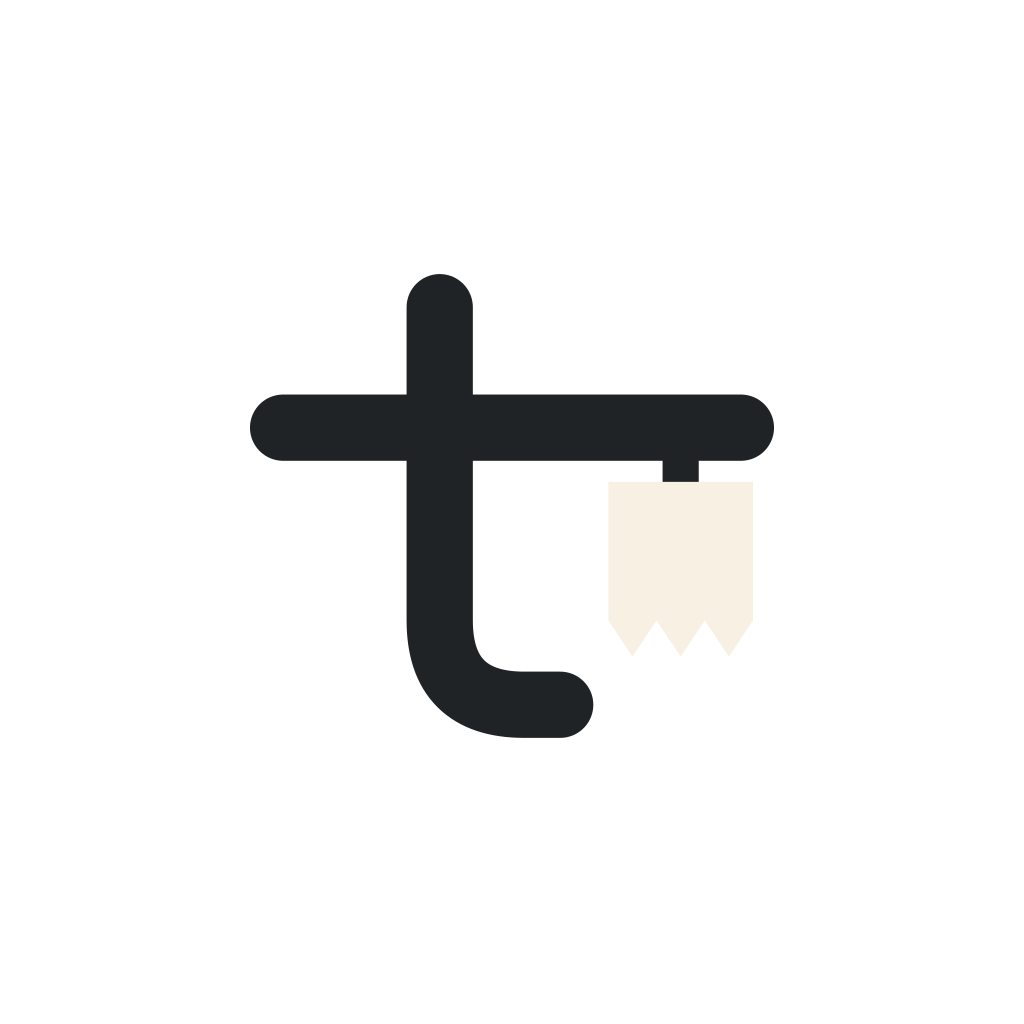
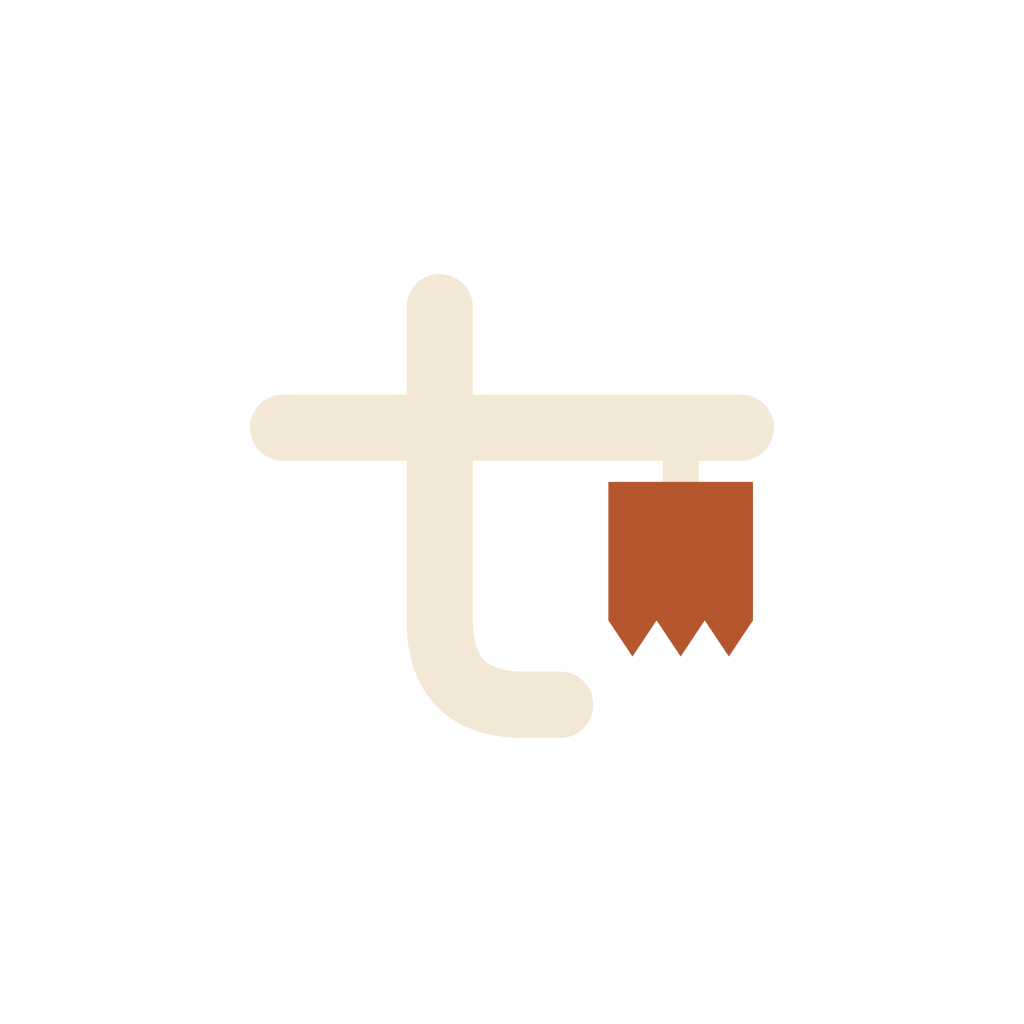
Switch to TNDL palette: Ivory, Navy, Copper, Mocha, Sand
Theme tokens (light and dark) with WCAG 4.5:1 text pairs, logo variants,
button glow, pickup board, onboarding progress, app icon, splash and favicon.

Changed region(s): [[0.2188, 0.25, 0.7812, 0.7188]]

diff --git a/src/theme.ts b/src/theme.ts
@@ -1,21 +1,21 @@
-// tamuko. brand guidelines v1.0 §05 Colour.
-// "Peach is precious: it marks the one thing to do next. Backgrounds stay calm (charcoal or cream),
-//  steel and blue carry structure. Status colours never change with a merchant's theme."
-// Proportion 60% charcoal/cream · 30% steel/blue/ivory · 10% peach. Never white text on peach.
-// All text pairs below are checked to WCAG 4.5:1.
+// tamuko. palette — TNDL 1.0 (Ivory · Navy · Copper · Mocha · Sand). Replaces brand guidelines v1.0 colours.
+// Copper marks the one thing to do next. Navy carries structure and text. Ivory/Sand stay calm in the background.
+// Mocha is the accent for small text on ivory (copper text on ivory is only 3.98:1).
+// Status colours never change with a merchant's theme. All text pairs below are checked to WCAG 4.5:1.
 import { useColorScheme } from 'react-native';
 import { useApp } from './store';
 
 export const BRAND = {
-  peach: '#FF8254',
-  steel: '#3F5A62',
-  blue: '#526889',
-  charcoal: '#1F1F21',
-  cream: '#EADFC7',
-  paper: '#F7F0E3',
-  ivory: '#F0EFE9',
-  stone: '#B8B8B0',
-  ink: '#202326', // text on peach (6.45:1)
+  ivory: '#F2E8D5',
+  navy: '#1B2A4A',
+  copper: '#B5562F',
+  mocha: '#8C5A3C',
+  sand: '#C9B896',
+  paper: '#FAF4E8',
+  copperLight: '#E08A60', // copper for dark mode (5.4:1 on navy)
+  navyDeep: '#141F38',
+  ink: '#141F38', // text on light copper
+  onCopper: '#FFF8EE', // text on copper (4.59:1)
 } as const;
 
 export type Theme = {
@@ -51,22 +51,22 @@ const webShadow = (css: string, color: string, y: number, r: number, o: number) 
 
 export const light: Theme = {
   dark: false,
-  bg: BRAND.cream,
-  surface: BRAND.paper, // "Paper · tickets, receipts, light cards"
-  raised: '#FFF8EE',
-  inset: '#DED2BC',
-  primary: BRAND.peach,
-  onPrimary: BRAND.ink,
-  select: BRAND.steel,
-  onSelect: BRAND.paper, // 6.50:1
-  accentText: BRAND.steel,
-  text: '#30474F', // website "Warm" --text, 6.9:1 on cream
-  textDim: '#575F5C', // 4.97:1 on cream
-  border: '#CFC3AD',
-  borderStrong: BRAND.steel,
-  focus: BRAND.steel,
-  overlay: '#20232699',
-  glass: 'rgba(247,240,227,0.72)',
+  bg: BRAND.ivory,
+  surface: BRAND.paper,
+  raised: '#FFFAF1',
+  inset: '#E6DAC2',
+  primary: BRAND.copper,
+  onPrimary: BRAND.onCopper, // 4.59:1
+  select: BRAND.navy,
+  onSelect: BRAND.ivory, // 11.7:1
+  accentText: BRAND.mocha, // 4.74:1 on ivory
+  text: BRAND.navy, // 11.7:1 on ivory
+  textDim: '#4F5B70', // 5.64:1 on ivory
+  border: BRAND.sand,
+  borderStrong: BRAND.navy,
+  focus: BRAND.navy,
+  overlay: '#141F3899',
+  glass: 'rgba(250,244,232,0.74)',
   paper: BRAND.paper,
   paperInk: BRAND.ink,
   success: '#236B52',
@@ -75,27 +75,27 @@ export const light: Theme = {
   info: '#2C668F',
   pending: '#705EA5',
   statusBg: BRAND.paper,
-  shadow: webShadow('0 1px 2px rgba(48,71,79,.06), 0 12px 32px -12px rgba(48,71,79,.22)', '#30474F', 10, 16, 0.14),
+  shadow: webShadow('0 1px 2px rgba(27,42,74,.06), 0 12px 32px -12px rgba(27,42,74,.22)', '#1B2A4A', 10, 16, 0.14),
 };
 
 export const dark: Theme = {
   dark: true,
-  bg: BRAND.charcoal,
-  surface: '#29292C',
-  raised: '#323238',
-  inset: '#171719',
-  primary: BRAND.peach,
-  onPrimary: BRAND.ink,
-  select: BRAND.blue, // "Dashboard Blue · dark-mode accent, selected panels"
-  onSelect: BRAND.ivory, // 4.93:1
-  accentText: BRAND.peach,
+  bg: BRAND.navyDeep,
+  surface: BRAND.navy,
+  raised: '#22345A',
+  inset: '#0F182C',
+  primary: BRAND.copperLight,
+  onPrimary: BRAND.ink, // 6.22:1
+  select: '#2C3E66',
+  onSelect: BRAND.ivory, // 8.69:1
+  accentText: BRAND.copperLight, // 5.40:1 on navy
   text: BRAND.ivory,
-  textDim: BRAND.stone, // 7.27:1 on surface
-  border: '#3A3A40',
-  borderStrong: '#7C91AD',
-  focus: '#FFC09C',
+  textDim: BRAND.sand, // 7.30:1 on navy
+  border: '#2E3F63',
+  borderStrong: BRAND.sand,
+  focus: '#F0B08C',
   overlay: '#000000B3',
-  glass: 'rgba(41,41,44,0.55)', // §07 glass
+  glass: 'rgba(27,42,74,0.6)',
   paper: BRAND.paper,
   paperInk: BRAND.ink,
   success: '#73D4A2',
@@ -103,7 +103,7 @@ export const dark: Theme = {
   error: '#FF8D87',
   info: '#86B9E3',
   pending: '#BAA7EE',
-  statusBg: '#29292C',
+  statusBg: BRAND.navy,
   shadow: webShadow('0 1px 2px rgba(0,0,0,.3), 0 16px 40px -16px rgba(0,0,0,.6)', '#000000', 12, 20, 0.45),
 };
 

diff --git a/src/screens/Rail.tsx b/src/screens/Rail.tsx
@@ -17,7 +17,7 @@ import { useTheme } from '../theme';
 if (Platform.OS === 'android') UIManager.setLayoutAnimationEnabledExperimental?.(true);
 
 const LATE_MS = 10 * 60_000;
-const INK = '#202326';
+const INK = '#141F38';
 const LATE = '#A63838';
 
 function useReduceMotion() {
@@ -89,7 +89,7 @@ function TicketCard({ tk, now, reduce, onPay, onPrint }: { tk: Ticket; now: numb
           </View>
         </Row>
         <Row gap={6} style={{ flexWrap: 'wrap' }}>
-          <View style={{ borderRadius: 6, backgroundColor: '#EADFC7', paddingHorizontal: 7, paddingVertical: 2 }}>
+          <View style={{ borderRadius: 6, backgroundColor: '#F2E8D5', paddingHorizontal: 7, paddingVertical: 2 }}>
             <Txt size={12} weight="600" color={INK}>{modeLabel(tk.mode, b.template)}{tk.table ? ` · ${tk.table}` : ''}</Txt>
           </View>
           <View style={{ borderRadius: 6, borderWidth: 1.5, borderColor: unpaid ? '#705EA5' : '#236B52', paddingHorizontal: 7, paddingVertical: 1 }}>
@@ -239,29 +239,29 @@ function PickupBoard({ tickets, onClose }: { tickets: Ticket[]; onClose: () => v
   const preparing = tickets.filter((tk) => !isReady(tk));
   const big = Math.min(72, Math.max(40, width / (landscape ? 14 : 8)));
   const col = (title: string, list: Ticket[], hot: boolean) => (
-    <View style={{ flex: 1, gap: 16, padding: 20, borderRadius: 24, backgroundColor: hot ? '#236B52' : '#29292C' }}>
-      <Txt size={22} weight="700" mono color={hot ? '#F0EFE9' : '#B8B8B0'} style={{ letterSpacing: 3, textTransform: 'uppercase' }}>{title}</Txt>
+    <View style={{ flex: 1, gap: 16, padding: 20, borderRadius: 24, backgroundColor: hot ? '#236B52' : '#1B2A4A' }}>
+      <Txt size={22} weight="700" mono color={hot ? '#F2E8D5' : '#C9B896'} style={{ letterSpacing: 3, textTransform: 'uppercase' }}>{title}</Txt>
       <View style={{ flexDirection: 'row', flexWrap: 'wrap', gap: 14 }}>
-        {list.length === 0 ? <Txt size={20} color="#B8B8B0">—</Txt> : null}
+        {list.length === 0 ? <Txt size={20} color="#C9B896">—</Txt> : null}
         {list.map((tk) => (
-          <View key={tk.id} style={{ paddingHorizontal: 16, paddingVertical: 8, borderRadius: 14, backgroundColor: hot ? '#F0EFE9' : '#1F1F21' }}>
-            <Txt size={big} weight="800" mono color={hot ? '#202326' : '#F0EFE9'}>{tk.token}</Txt>
+          <View key={tk.id} style={{ paddingHorizontal: 16, paddingVertical: 8, borderRadius: 14, backgroundColor: hot ? '#F2E8D5' : '#141F38' }}>
+            <Txt size={big} weight="800" mono color={hot ? '#141F38' : '#F2E8D5'}>{tk.token}</Txt>
           </View>
         ))}
       </View>
     </View>
   );
   return (
-    <View style={{ flex: 1, backgroundColor: '#1F1F21', padding: 20, paddingTop: 48, gap: 16 }}>
+    <View style={{ flex: 1, backgroundColor: '#141F38', padding: 20, paddingTop: 48, gap: 16 }}>
       <Row style={{ justifyContent: 'space-between' }}>
-        <Txt size={26} weight="800" heading color="#F0EFE9">{b.name}</Txt>
+        <Txt size={26} weight="800" heading color="#F2E8D5">{b.name}</Txt>
         <Button size="sm" kind="secondary" icon="close" label="Close" onPress={onClose} />
       </Row>
       <View style={{ flex: 1, flexDirection: landscape ? 'row' : 'column', gap: 16 }}>
         {col('Preparing', preparing, false)}
         {col('Ready · please collect', ready, true)}
       </View>
-      <Txt size={14} color="#B8B8B0" center>Show your token at the counter.</Txt>
+      <Txt size={14} color="#C9B896" center>Show your token at the counter.</Txt>
     </View>
   );
 }

diff --git a/src/brand/Logo.tsx b/src/brand/Logo.tsx
@@ -12,10 +12,10 @@ export type LogoVariant = 'charcoal' | 'cream' | 'peach' | 'steel' | 'black' | '
 
 // Colour versions (§03): tile / strokes / ticket / wordmark ink / bar.
 const V: Record<LogoVariant, { tile: string; stroke: string; ticket: string; ink: string; bar: string }> = {
-  charcoal: { tile: '#29292C', stroke: '#F0EFE9', ticket: '#FF8254', ink: '#F0EFE9', bar: '#FF8254' },
-  cream: { tile: '#202326', stroke: '#F7F0E3', ticket: '#FF8254', ink: '#202326', bar: '#FF8254' },
-  peach: { tile: '#202326', stroke: '#F7F0E3', ticket: '#FF8254', ink: '#202326', bar: '#F7F0E3' },
-  steel: { tile: '#3F5A62', stroke: '#F7F0E3', ticket: '#FF8254', ink: '#F7F0E3', bar: '#FF8254' },
+  charcoal: { tile: '#2C3E66', stroke: '#F2E8D5', ticket: '#E08A60', ink: '#F2E8D5', bar: '#E08A60' },
+  cream: { tile: '#1B2A4A', stroke: '#F2E8D5', ticket: '#B5562F', ink: '#1B2A4A', bar: '#B5562F' },
+  peach: { tile: '#1B2A4A', stroke: '#F2E8D5', ticket: '#B5562F', ink: '#1B2A4A', bar: '#F2E8D5' },
+  steel: { tile: '#1B2A4A', stroke: '#F2E8D5', ticket: '#E08A60', ink: '#F2E8D5', bar: '#E08A60' },
   black: { tile: '#FFFFFF', stroke: '#111111', ticket: '#111111', ink: '#111111', bar: '#111111' },
   white: { tile: '#111111', stroke: '#FFFFFF', ticket: '#FFFFFF', ink: '#FFFFFF', bar: '#FFFFFF' },
 };
@@ -64,7 +64,7 @@ export function Lockup({ height = 36, variant = 'charcoal', product }: { height?
         <Wordmark size={product ? height * 0.6 : height * 0.95} variant={variant} />
         {/* Product name in the heading face, peach (§08). Peach on light backgrounds is ~2:1, so on cream/paper
             the label uses the wordmark ink to keep the 4.5:1 rule the guidelines also require. */}
-        {product ? <Text style={{ fontFamily: F.heading, fontSize: height * 0.6, lineHeight: height * 0.66, color: variant === 'cream' || variant === 'black' ? V[variant].ink : '#FF8254' }}>{product}</Text> : null}
+        {product ? <Text style={{ fontFamily: F.heading, fontSize: height * 0.6, lineHeight: height * 0.66, color: variant === 'cream' || variant === 'black' ? V[variant].ink : V[variant].bar }}>{product}</Text> : null}
       </View>
     </View>
   );

diff --git a/src/components/ui.tsx b/src/components/ui.tsx
@@ -153,7 +153,7 @@ export function Button({ label, onPress, kind = 'primary', disabled, loading, ic
   // Website .btn: pill, 600 weight, 15×24 padding, peach glow on the primary action.
   const h = size === 'lg' ? 56 : size === 'sm' ? 42 : 48;
   const fs = size === 'lg' ? 17 : size === 'sm' ? 15 : 16;
-  const glow = kind === 'primary' && !disabled ? { boxShadow: '0 6px 20px -8px rgba(255,130,84,.8)', shadowColor: '#FF8254', shadowOffset: { width: 0, height: 6 }, shadowRadius: 10, shadowOpacity: 0.45, elevation: 4 } : null;
+  const glow = kind === 'primary' && !disabled ? { boxShadow: '0 6px 20px -8px rgba(181,86,47,.7)', shadowColor: '#B5562F', shadowOffset: { width: 0, height: 6 }, shadowRadius: 10, shadowOpacity: 0.45, elevation: 4 } : null;
   return (
     <Pressable
       accessibilityRole="button"
@@ -524,7 +524,7 @@ export function FadeIn({ children, delay = 0, style, distance = 10 }: { children
   );
 }
 
-const GLOW = 'rgba(255,130,84,';
+const GLOW = 'rgba(181,86,47,';
 /** Selectable tile: hover glow on web, peach glow and a soft pop when selected. */
 export function Tile({ icon, label, hint, selected, onPress, style }: { icon: IconName; label: string; hint?: string; selected: boolean; onPress: () => void; style?: StyleProp<ViewStyle> }) {
   const t = useTheme();
@@ -543,7 +543,7 @@ export function Tile({ icon, label, hint, selected, onPress, style }: { icon: Ic
         {(state: any) => {
           const hovered = !!state.hovered;
           const glow = selected
-            ? { boxShadow: `0 0 0 4px ${GLOW}.22), 0 12px 28px -10px ${GLOW}.55)`, shadowColor: '#FF8254', shadowOffset: { width: 0, height: 8 }, shadowRadius: 16, shadowOpacity: 0.45, elevation: 6 }
+            ? { boxShadow: `0 0 0 4px ${GLOW}.22), 0 12px 28px -10px ${GLOW}.5)`, shadowColor: '#B5562F', shadowOffset: { width: 0, height: 8 }, shadowRadius: 16, shadowOpacity: 0.45, elevation: 6 }
             : hovered
               ? { boxShadow: `0 0 0 3px ${GLOW}.14), 0 10px 24px -12px ${GLOW}.4)` }
               : (t.shadow as object);

diff --git a/src/screens/Onboarding.tsx b/src/screens/Onboarding.tsx
@@ -102,7 +102,7 @@ export default function Onboarding() {
           <LanguageButton onPicked={() => setLangPicked(true)} />
         </Row>
         <Row gap={6}>
-          {[0, 1].map((i) => <View key={i} style={{ flex: 1, height: 5, borderRadius: 99, backgroundColor: i <= step ? '#FF8254' : '#0000001A' }} />)}
+          {[0, 1].map((i) => <View key={i} style={{ flex: 1, height: 5, borderRadius: 99, backgroundColor: i <= step ? th.primary : th.border }} />)}
         </Row>
 
         {step === 0 ? (
